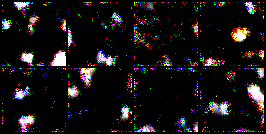
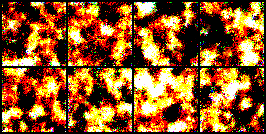
Normalize timestep input for model in DDPM
Normalized the timestep input by dividing by total timesteps before passing to the model, as required by GaussianFourierProjection. Updated both training and sampling steps. Also updated output images for epochs 1-3.

diff --git a/DDPM/DDPM.py b/DDPM/DDPM.py
@@ -88,7 +88,9 @@ class DDPM(nn.Module):
         x_t, noise = self.add_noise(x_0, t)
 
         # 3. 神经网络预测噪声
-        predicted_noise = self.model(x_t, t)
+        t_normalized = t.float() / self.timesteps
+        # 用了 GaussianFourierProjection，所以 必须归一化
+        predicted_noise = self.model(x_t, t_normalized)
 
         # 4. 计算 MSE Loss
         loss = F.mse_loss(predicted_noise, noise)
@@ -110,7 +112,9 @@ class DDPM(nn.Module):
             t = (torch.ones(num_samples) * i).long().to(self.device)
 
             # 预测噪声
-            predicted_noise = self.model(x, t)
+            t_normalized = t.float() / self.timesteps
+            # 用了 GaussianFourierProjection，所以 必须归一化
+            predicted_noise = self.model(x, t_normalized)
 
             # 计算均值 mu
             # 公式: x_{t-1} = 1/sqrt(alpha) * (x_t - (beta / sqrt(1-alpha_hat)) * eps)
